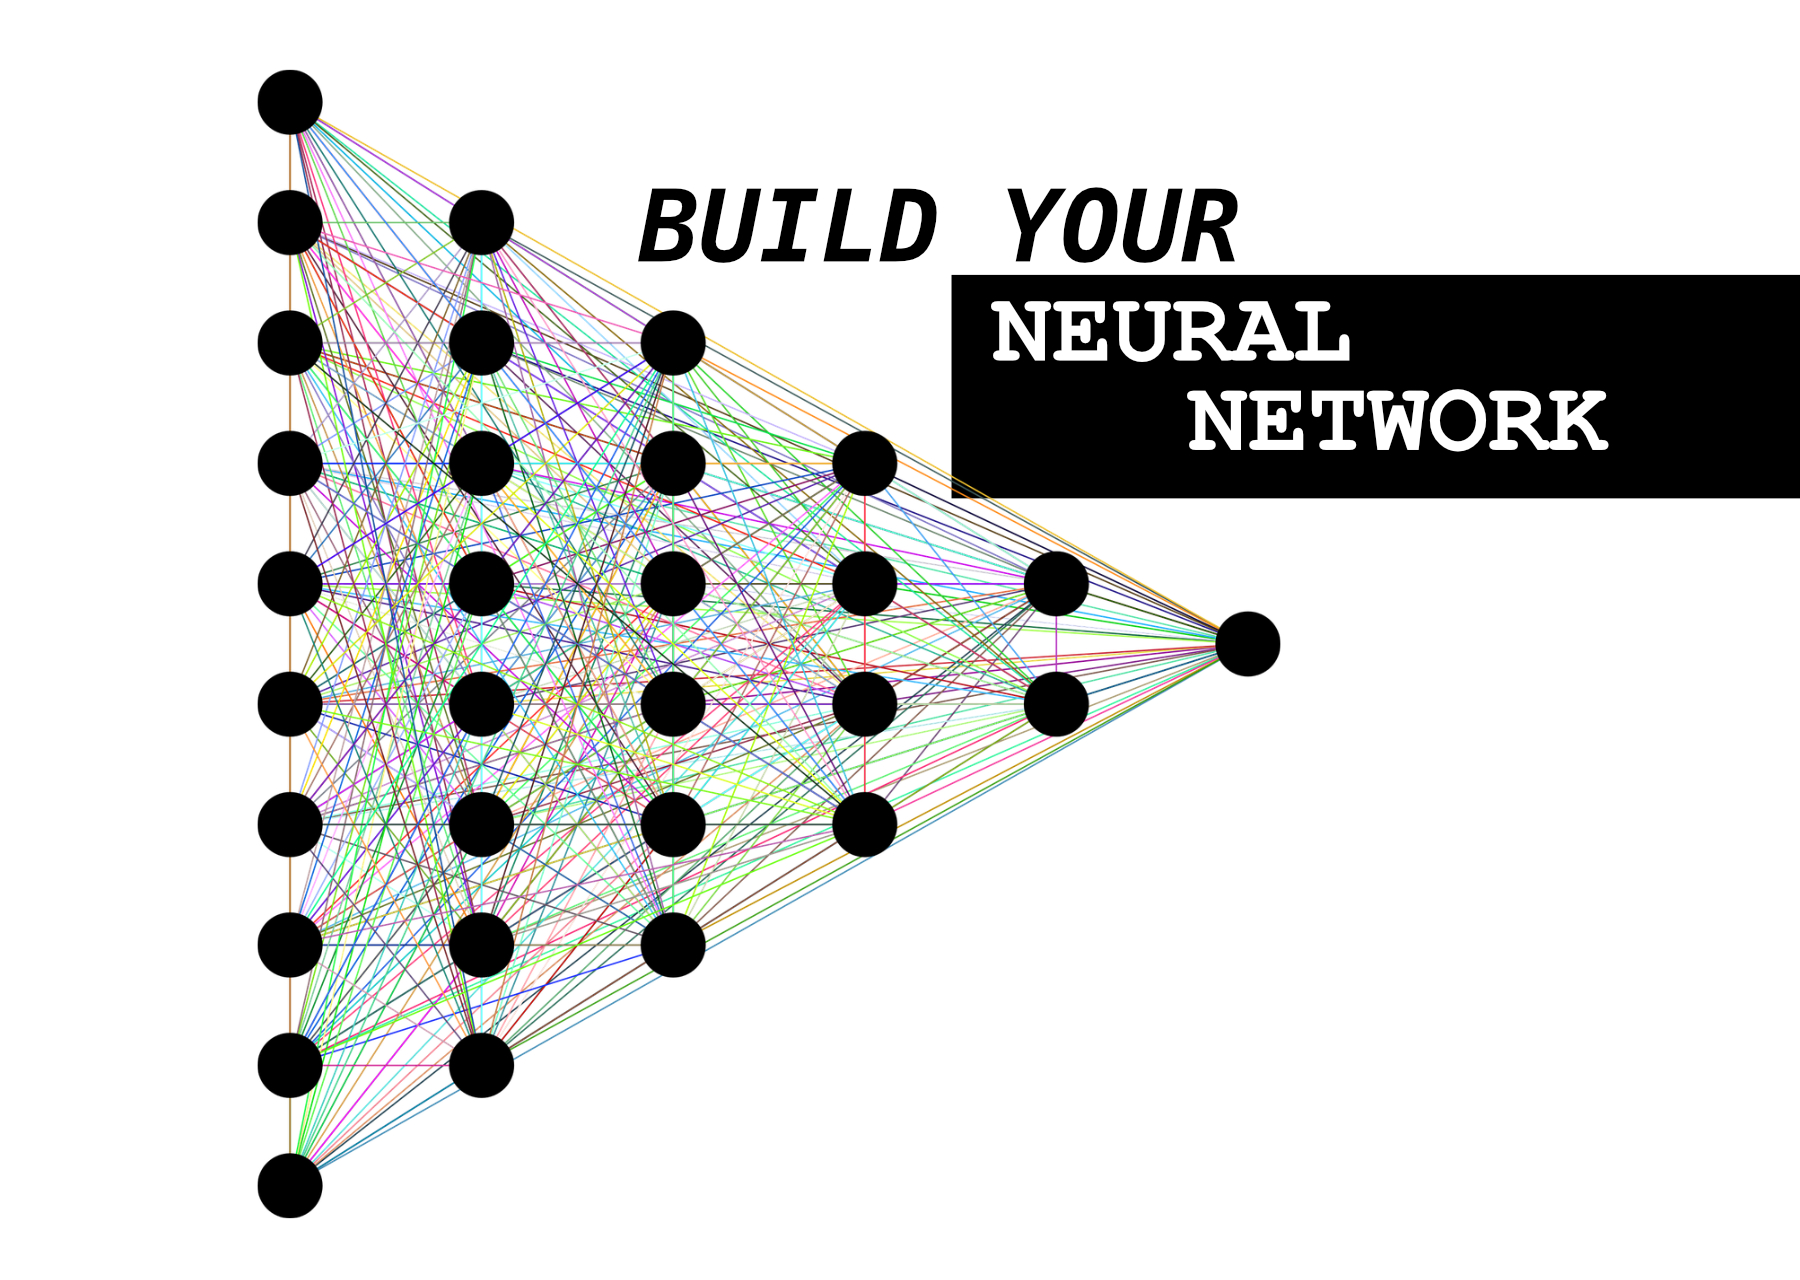
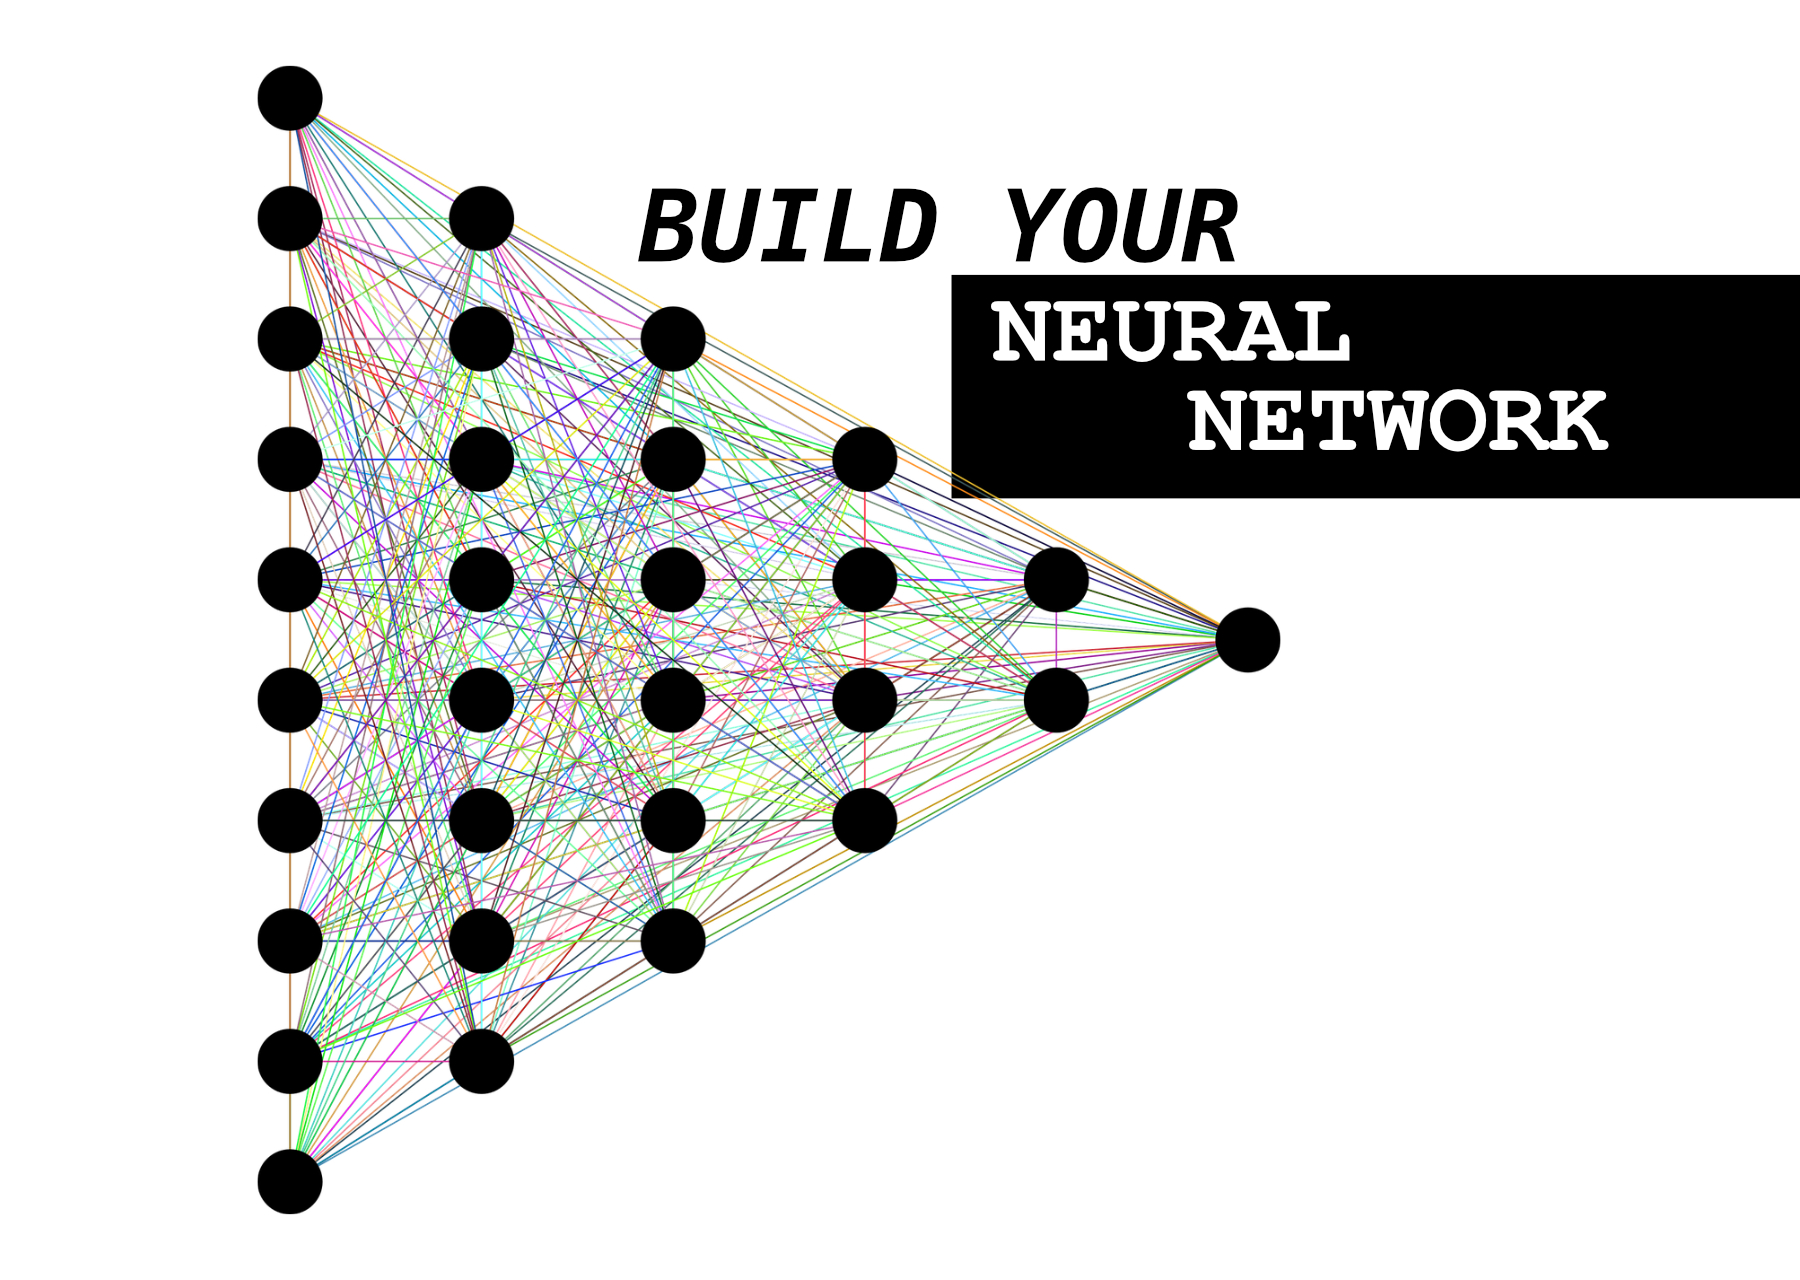
Add hove to buttons, modify BYNN project image and add buttons to BYNN project

Changed region(s): [[0.1556, 0.0938, 0.7156, 0.9062]]

diff --git a/_sass/3-modules/_buttons.scss b/_sass/3-modules/_buttons.scss
@@ -29,10 +29,18 @@
 
   &--small {
     padding: 20px 24px;
+
+	&:hover {
+		background: var(--button-background-hover);
+	  }
   }
 
   &--big {
     display: block;
     width: 100%;
+
+	&:hover {
+		background: var(--button-background-hover);
+	  }
   }
 }

diff --git a/_projects/2022-04-15-build-your-neural-network.md b/_projects/2022-04-15-build-your-neural-network.md
@@ -8,3 +8,8 @@ image: "/images/project_bynn_large.jpg"
 This project started with the idea to introduce neural networks, artificial intelligence, to students. For those who are not familiar with artificial intelligence, the concept may be intimidating; how can my computer learn how to do certain tasks by itself and help me do them? The goal of this project is to make this technology accessible and show how it may be used to optimize and speedup processes, lose less time doing repetitive tasks and validate manually found data.
 
 By following this tutorial, you will learn how to program an image detection neural network that detects different objects and counts them. Of course, with little tweaks, one could do many other things with the model. Feel free to fork the project and share your own neural network.
+
+<div style="text-align:center">
+	<button class="button button--small" onclick="location.href='https://etiennecollin.github.io/build-your-nn';" type="button">Visit the BYNN Tutorial</button>
+	<button class="button button--small" onclick="location.href='https://github.com/etiennecollin/build-your-nn';" type="button">Visit the BYNN GitHub Repository</button>
+</div>
